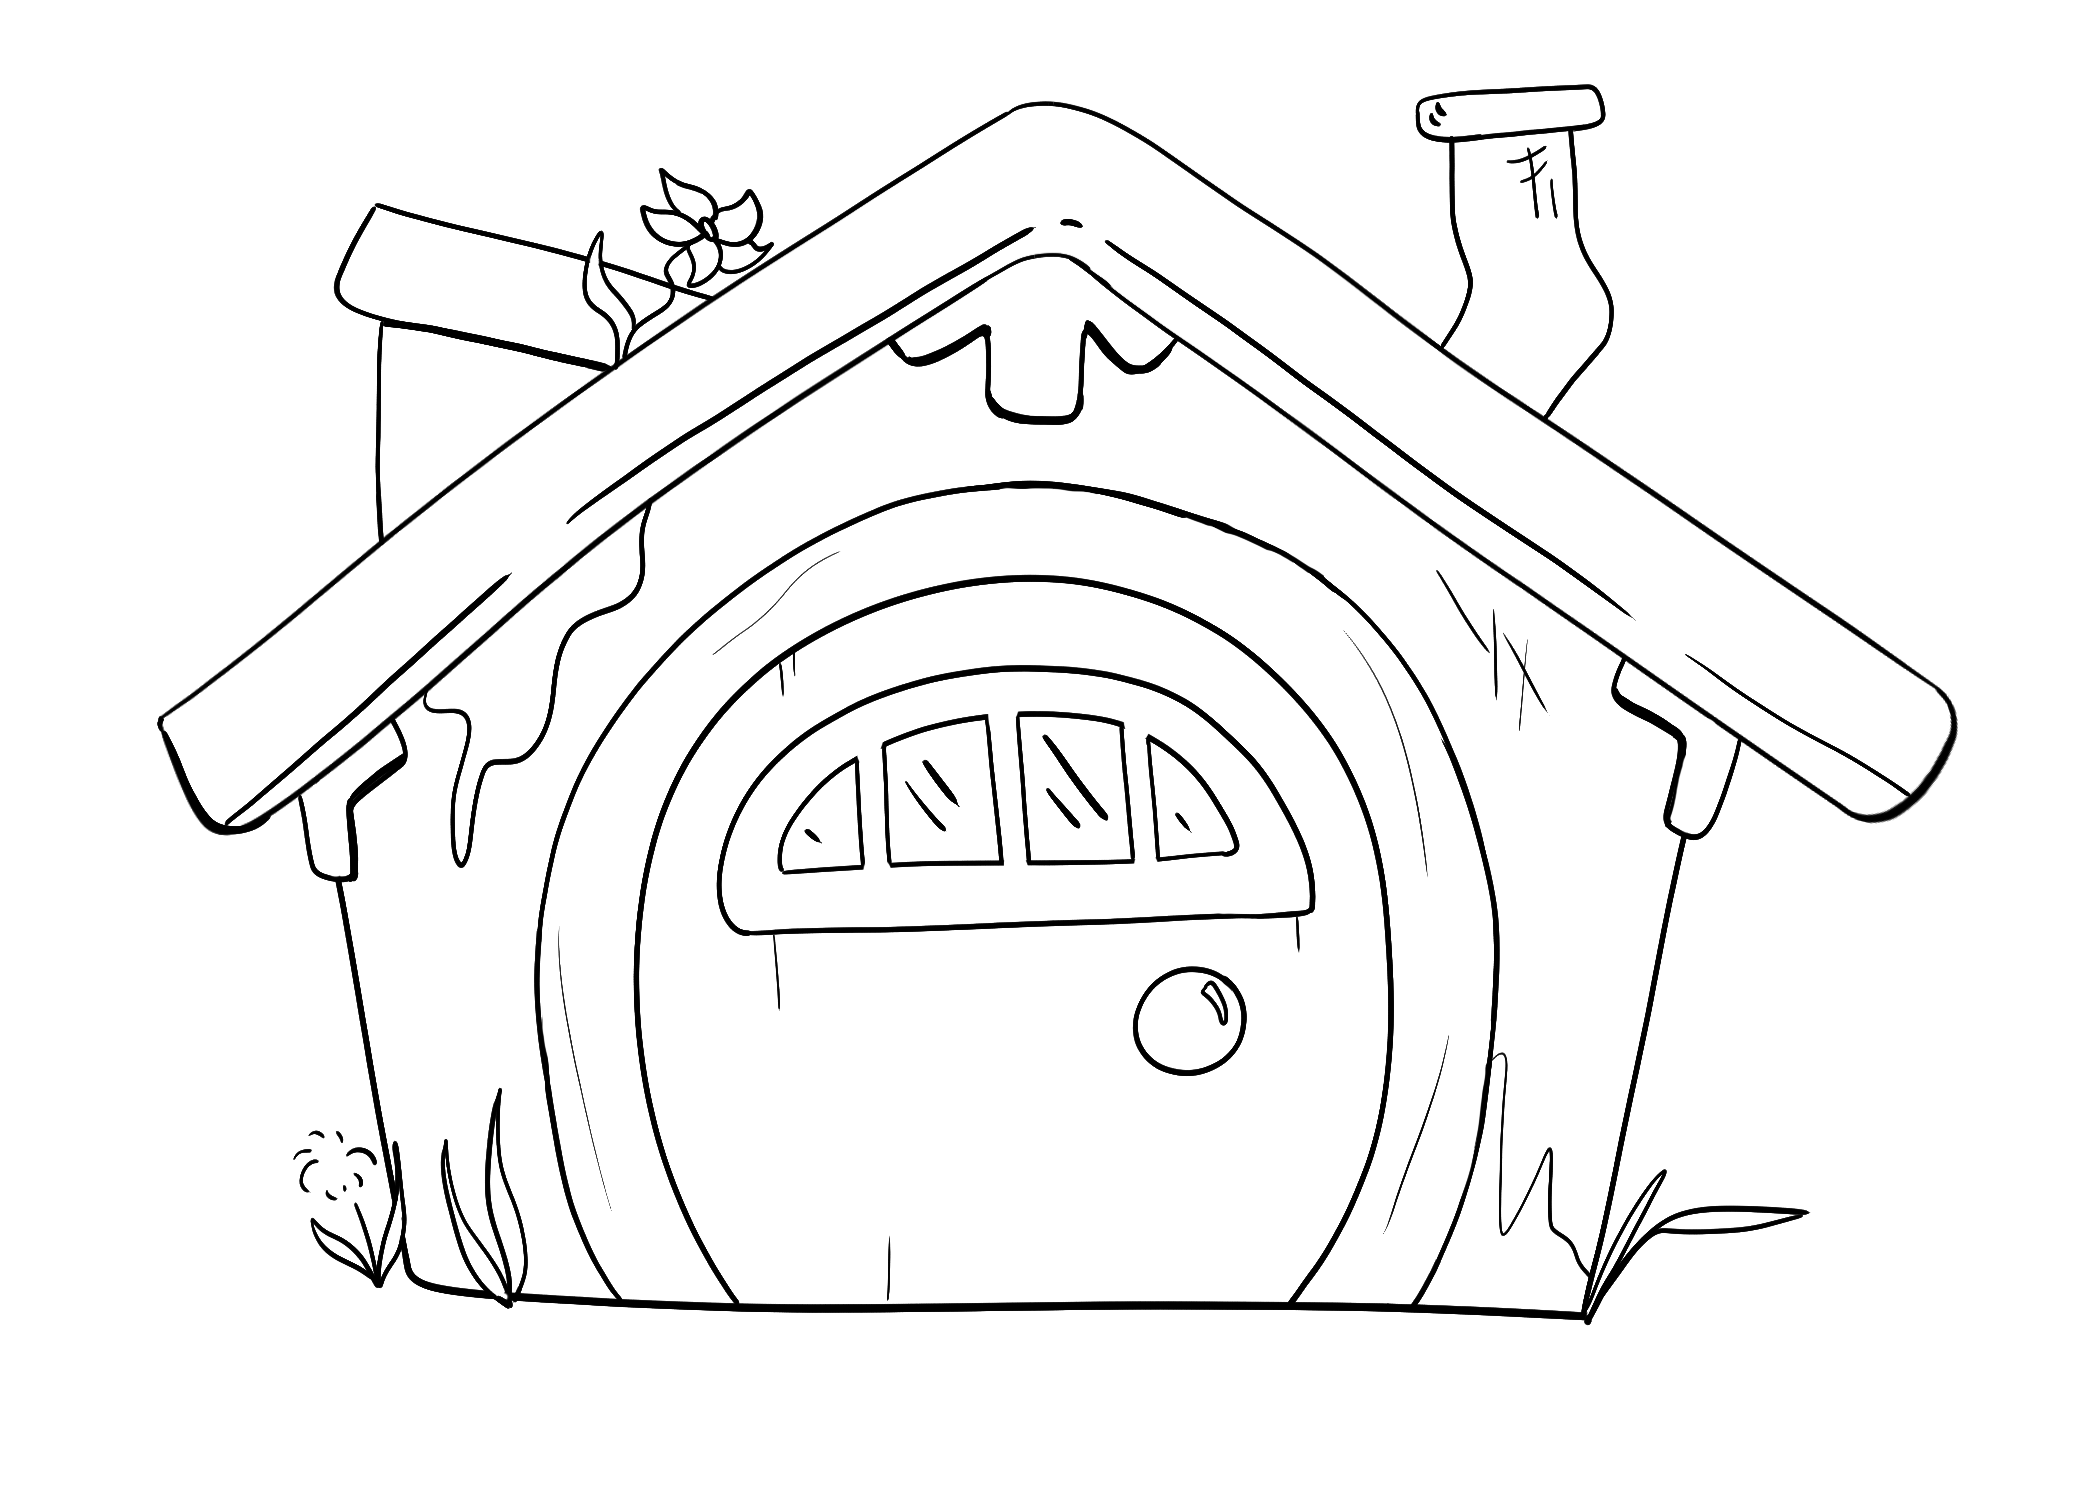
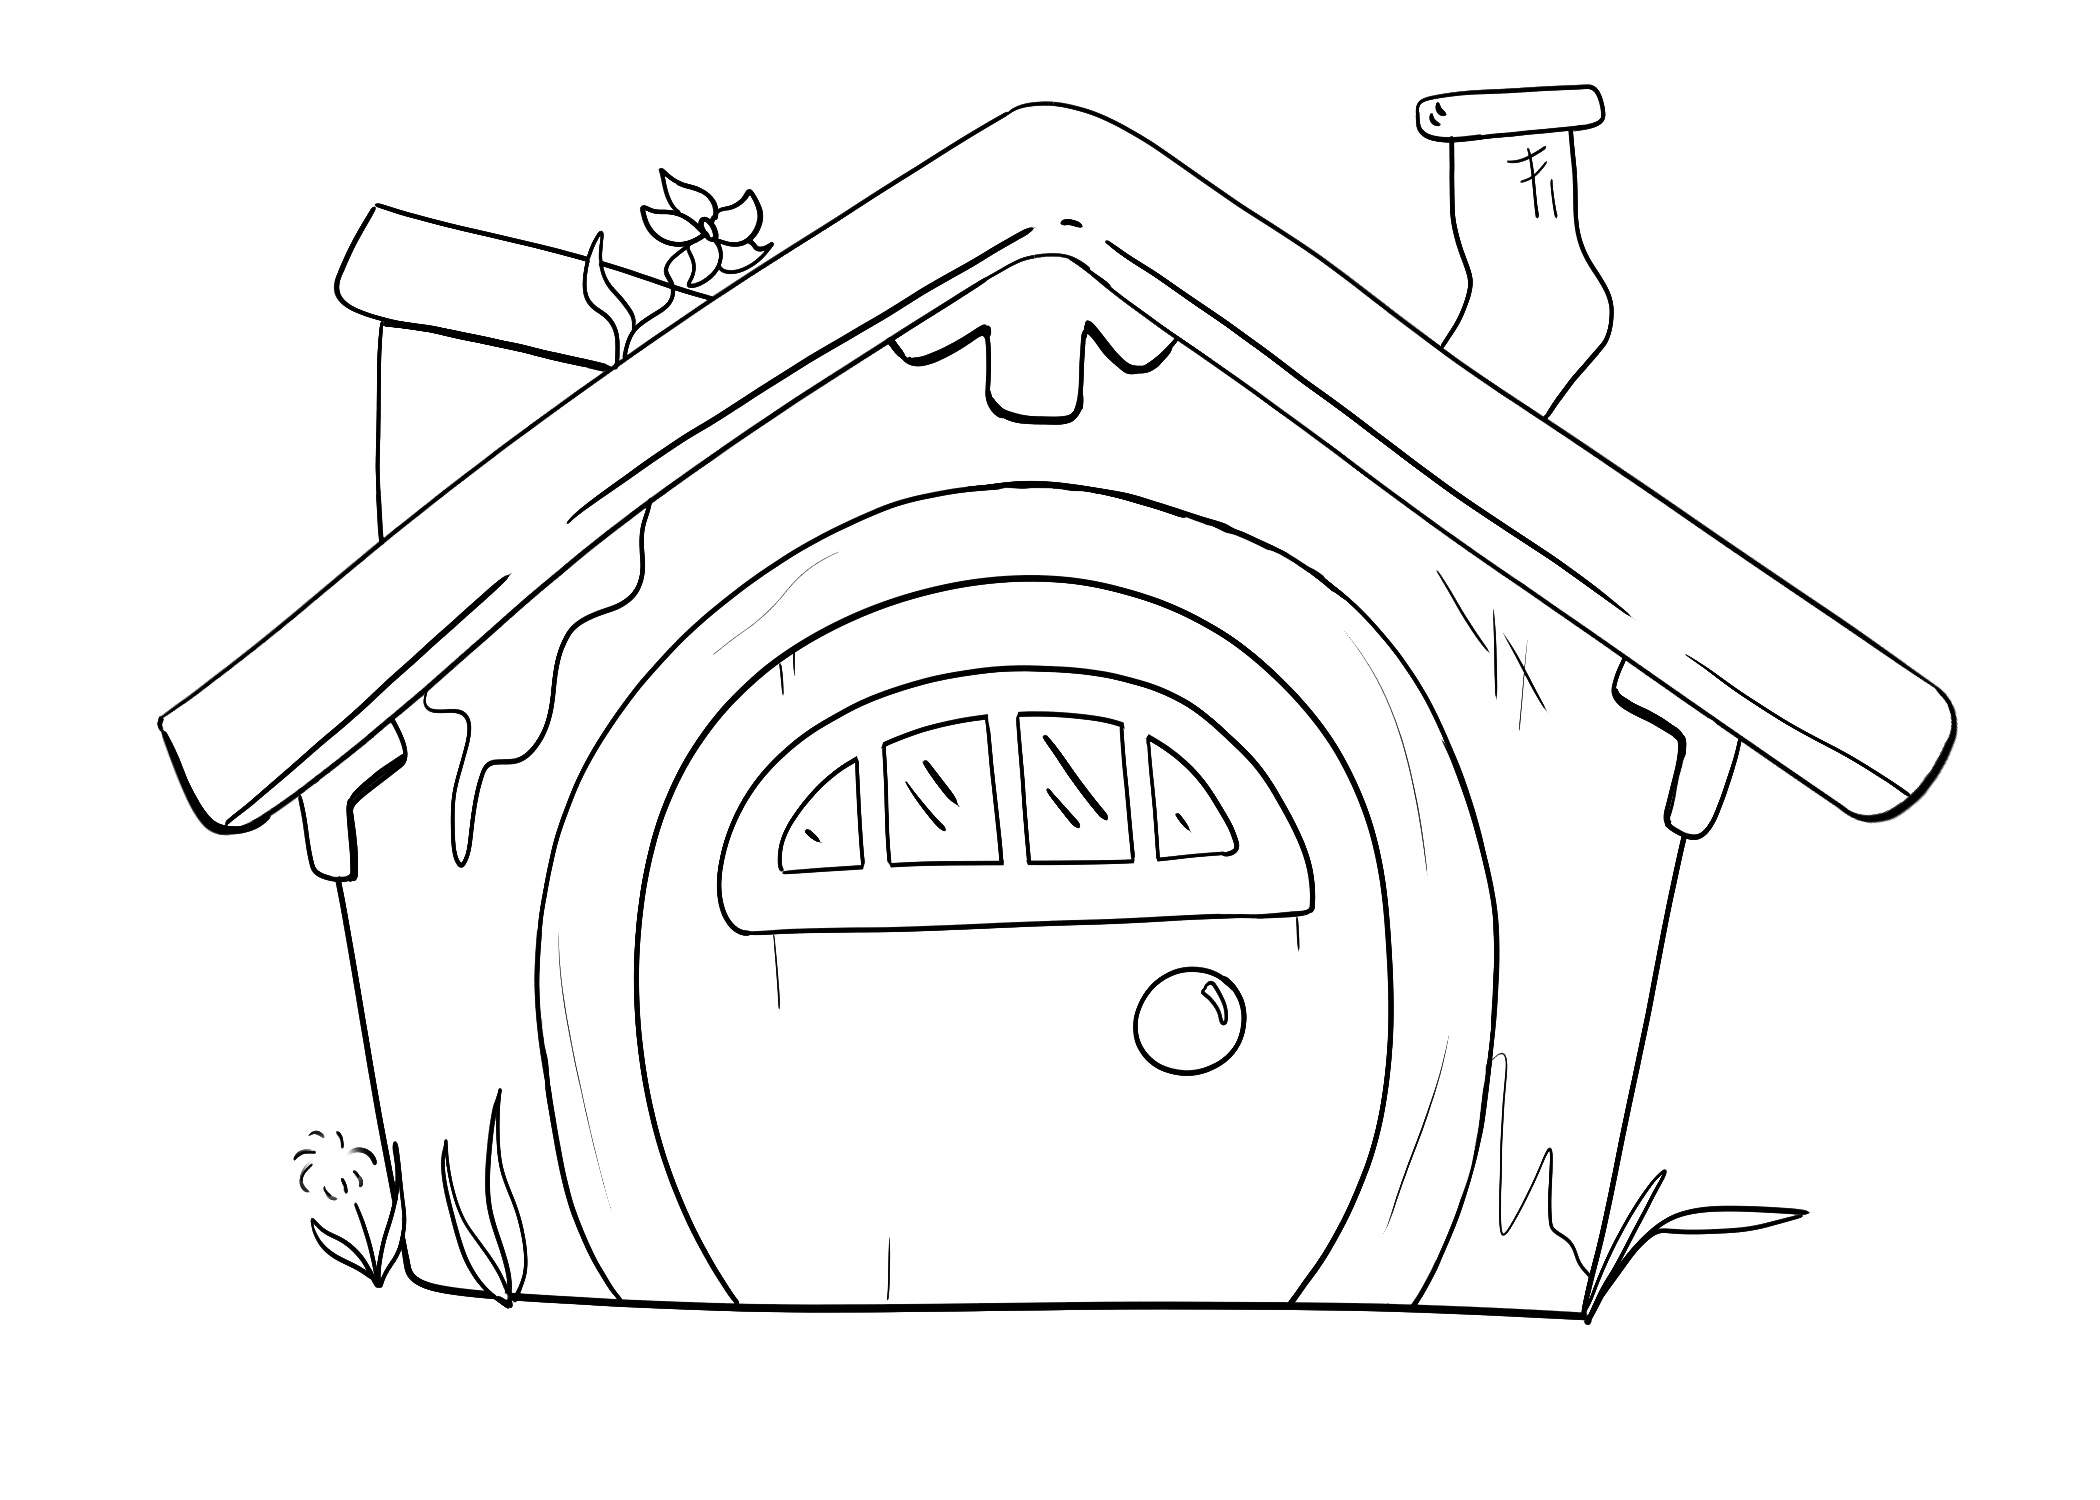
NavBar Styling
Added navbar for all pages and corrected house image

diff --git a/src/views/About.vue b/src/views/About.vue
@@ -1,13 +1,14 @@
 <template>
   <ScrollCharacter />
+
   <h1 class="text-3xl font-bold my-8">About Me</h1>
   <img :src="house" alt="House" id="house-photo" />
 
   <section class="about-me space-y-16">
     <div class="story-block left">
       <p>
-        My journey into software engineering hasn't followed a straight line — but it's that winding
-        trail that's shaped me into a curious, adaptable, and driven developer.
+        My journey into software engineering hasn't followed a straight line — but it's that
+        winding trail that's shaped me into a curious, adaptable, and driven developer.
       </p>
     </div>
 
@@ -15,10 +16,10 @@
 
     <div class="story-block right">
       <p>
-        Right out of high school, I jumped into both work and college. I started as a Sandwich Artist
-        at Subway while attending Portland Community College full-time. I quickly moved into a Shift
-        Lead role, taking on more responsibility and discovering how much I enjoyed solving problems
-        and helping a team grow.
+        Right out of high school, I jumped into both work and college. I started as a Sandwich
+        Artist at Subway while attending Portland Community College full-time. I quickly moved
+        into a Shift Lead role, taking on more responsibility and discovering how much I enjoyed
+        solving problems and helping a team grow.
       </p>
     </div>
 
@@ -34,11 +35,11 @@
 
     <div class="story-block left">
       <p>
-        At PCC, I focused on general studies while exploring a variety of subjects to find my direction.
-        When I relocated to the Salem area, I joined Carhartt as a Brand Ambassador. After finishing
-        my associate's degree, I continued growing professionally and eventually worked my way up to
-        Supervisor. That role gave me the opportunity to develop real leadership skills — from team
-        communication to problem-solving under pressure.
+        At PCC, I focused on general studies while exploring a variety of subjects to find my
+        direction. When I relocated to the Salem area, I joined Carhartt as a Brand Ambassador.
+        After finishing my associate's degree, I continued growing professionally and eventually
+        worked my way up to Supervisor. That role gave me the opportunity to develop real
+        leadership skills — from team communication to problem-solving under pressure.
       </p>
     </div>
 
@@ -60,9 +61,9 @@
     <div class="story-block right">
       <p>
         It was during this time that I became “the techy one” at our store — the person everyone
-        turned to for troubleshooting software, submitting IT tickets, and making sense of the tools
-        we relied on. That experience sparked something deeper: a desire to understand not just how
-        the systems worked, but how they could be improved.
+        turned to for troubleshooting software, submitting IT tickets, and making sense of the
+        tools we relied on. That experience sparked something deeper: a desire to understand not
+        just how the systems worked, but how they could be improved.
       </p>
     </div>
 
@@ -70,14 +71,10 @@
 
     <div class="story-block left">
       <p>
-        So I made the leap and enrolled at Western Oregon University to pursue a Bachelor's degree
-        in Computer Science. Over the course of three years, I gained hands-on experience with
-        full-stack development and deepened my understanding of how software is built from the ground
-        up. For a few months during that time, I also worked as a research assistant for a CS professor,
-        where I explored AI tools and created educational videos to support student learning — a unique
-        project that expanded both my technical and creative skill sets. During this transition, I was
-        fortunate to be supported by my husband, which allowed me to fully focus on my education and
-        growth. That time gave me the space I needed to invest in becoming the engineer I am today.
+        I enrolled at Western Oregon University for a Bachelor's in Computer Science. Over three
+        years I gained hands-on full-stack experience, and even worked as a research assistant
+        creating AI-driven educational videos. With my husband’s support, I could fully focus on
+        learning and growth.
       </p>
     </div>
 
@@ -86,13 +83,11 @@
     <div class="story-block center">
       <p>
         Now, I'm excited to bring my background in leadership, user experience, and full-stack
-        development into the software industry. Whether working on front-end interfaces or
-        back-end systems, I'm passionate about building thoughtful, resilient tools — and telling
-        a great story through the code I write.
+        development into the software industry. Whether front-end or back-end, I'm passionate about
+        building thoughtful, resilient tools — and telling a great story through the code I write.
       </p>
     </div>
-    <br />
-    <br />
+    <br /><br />
   </section>
 </template>
 
@@ -104,9 +99,6 @@ import carhartt from '@/assets/carhartt.jpg'
 import supervisor from '@/assets/supervisor-carhartt.jpg'
 import wouPhoto from '@/assets/wou-photo.jpg'
 import house from '@/assets/house.png'
-import open_house from '@/assets/open_house.png'
-import fancy1 from '@/assets/character/fancy1.png'
-import fancy2 from '@/assets/character/fancy2.png'
 import ScrollCharacter from '@/components/ScrollCharacter.vue'
 import SandwichAnimation from '@/components/SandwichAnimation.vue'
 import CharacterWalkAnimation from '@/components/CharacterWalkAnimation.vue'
@@ -115,6 +107,13 @@ const sandwichRef = ref(null)
 const carharttRef = ref(null)
 const carharttPlaying = ref(false)
 </script>
+
+<style>
+body {
+  margin: 0;
+  background: linear-gradient(to bottom, #3b82f6 0%, #3ba76f 100%);
+}
+</style>
 
 <style scoped>
 #house-photo {
@@ -136,6 +135,7 @@ const carharttPlaying = ref(false)
   margin-left: auto;
   z-index: 2;
   position: relative;
+  transition: box-shadow 0.3s ease;
 }
 
 #subway-photo,
@@ -150,6 +150,12 @@ const carharttPlaying = ref(false)
   margin-right: auto;
   transform: scaleX(-1);
   cursor: pointer;
+  transition: box-shadow 0.3s ease;
+}
+
+#subway-photo:hover,
+#carhartt-photo:hover {
+  box-shadow: 0 0 30px 15px rgba(0, 191, 255, 0.9);
 }
 
 #carhartt-photo.disabled {

diff --git a/src/components/NavBar.vue b/src/components/NavBar.vue
@@ -1,0 +1,69 @@
+<template>
+  <nav class="navbar">
+    <RouterLink v-for="link in links" :key="link.name" :to="link.to" class="nav-link">
+      {{ link.name }}
+    </RouterLink>
+  </nav>
+</template>
+
+<script setup>
+import { RouterLink } from 'vue-router'
+
+const links = [
+  { name: 'Home', to: '/home' },
+  { name: 'About', to: '/about' },
+  { name: 'Experiences', to: '/experiences' },
+  { name: 'Videos', to: '/videos' }
+]
+</script>
+
+<style scoped>
+.navbar {
+  display: flex;
+  justify-content: center;
+  gap: 2rem;
+  padding: 1.5rem;
+  background: linear-gradient(to bottom, #89c2ff, #4db477);
+  box-shadow: 0 4px 8px rgba(0,0,0,0.2);
+  font-family: 'Quicksand', sans-serif;
+  border-radius: 24px;
+  position: sticky;
+  top: 0;
+  z-index: 999;
+}
+
+.nav-link {
+  position: relative;
+  font-size: 1.3rem;
+  text-decoration: none;
+  color: white;
+  transition: transform 0.2s ease-in-out;
+}
+
+.nav-link::after {
+  content: '';
+  position: absolute;
+  bottom: -6px;
+  left: 50%;
+  width: 0%;
+  height: 3px;
+  background: white;
+  transition: 0.3s ease;
+  transform: translateX(-50%);
+  border-radius: 2px;
+}
+
+.nav-link:hover {
+  transform: scale(1.1);
+  text-shadow: 0 0 8px white;
+}
+
+.nav-link:hover::after {
+  width: 80%;
+}
+
+.router-link-active {
+  font-weight: bold;
+  text-shadow: 0 0 6px white;
+}
+</style>

diff --git a/src/App.vue b/src/App.vue
@@ -1,8 +1,10 @@
 <script setup>
+import NavBar from './components/NavBar.vue'
 </script>
 
 <template>
   <div>
+    <NavBar />
     <router-view />
   </div>
 </template>
